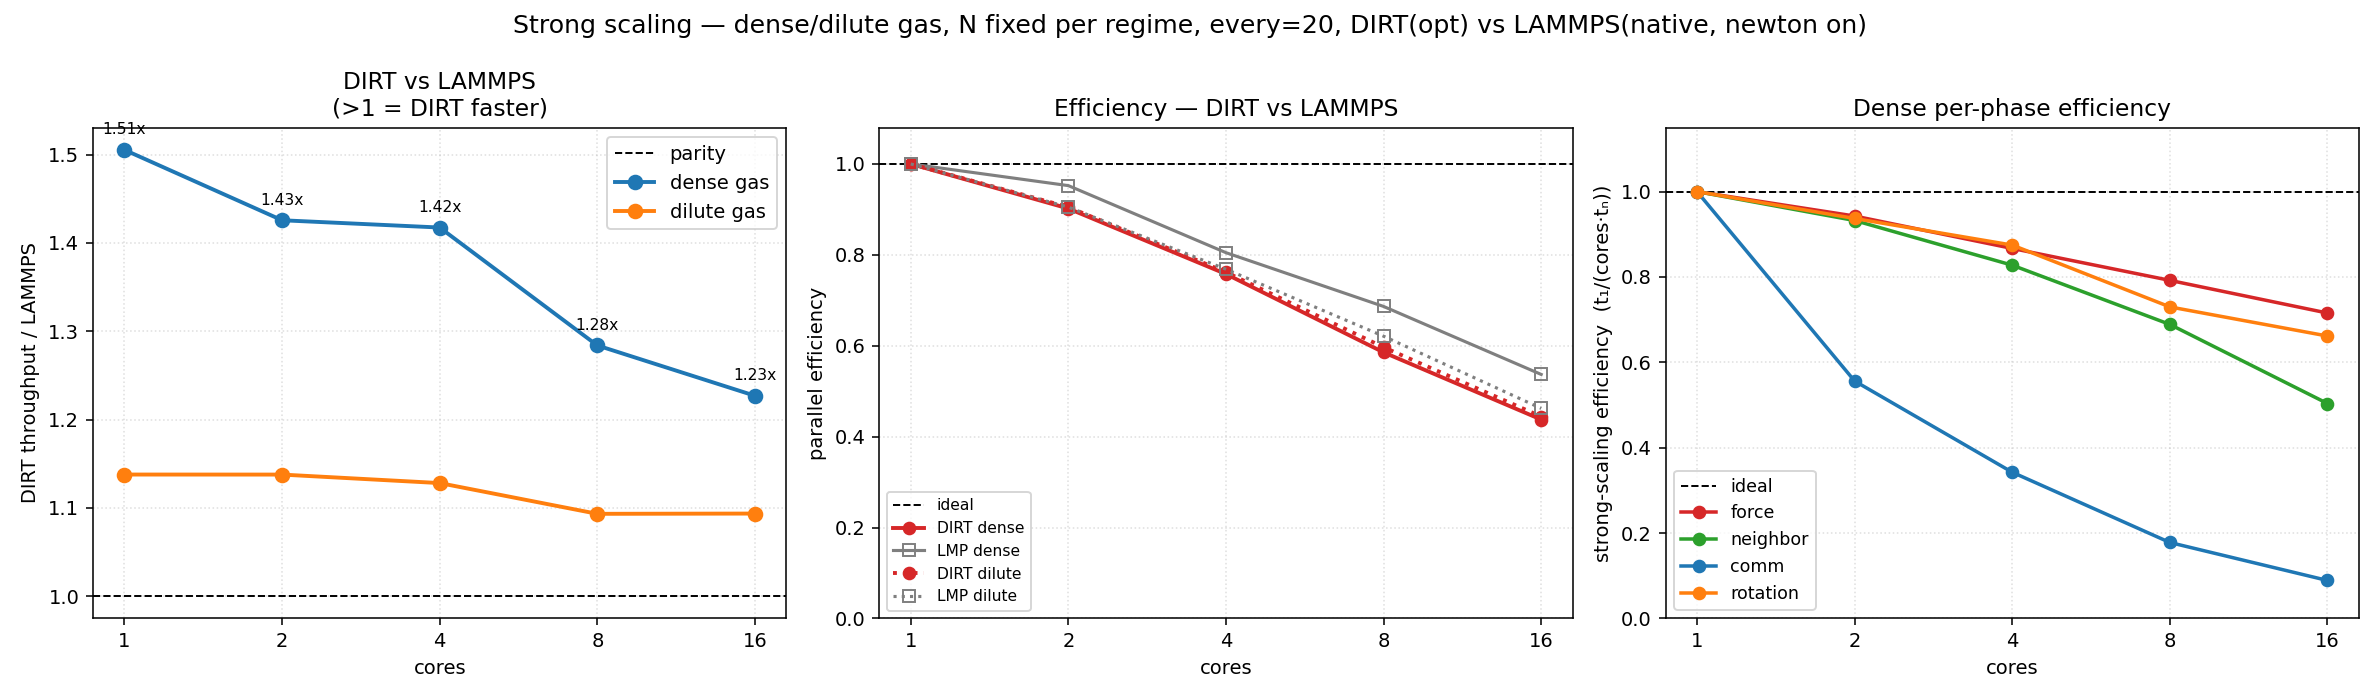
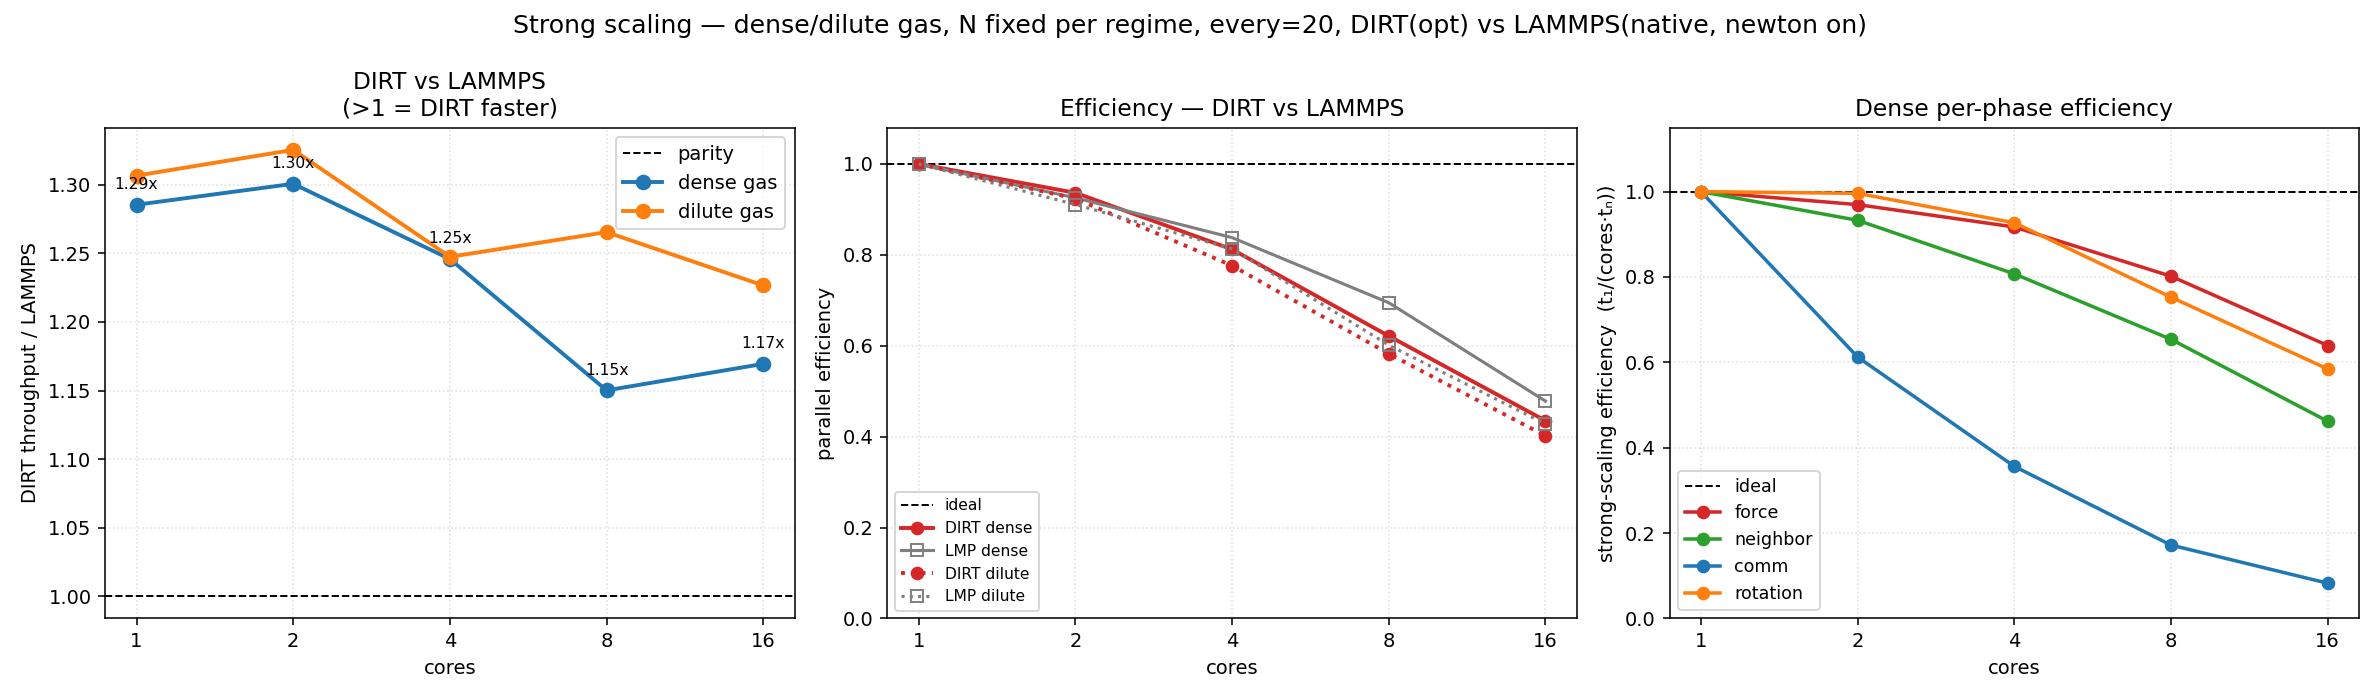
perf_mpi_scaling: rerun strong/weak scaling vs LAMMPS after comm and overhead fixes
Regenerated both scaling figures and the Findings section from a fresh run on
the M5 Pro (6 P + 12 E cores): this branch vs native LAMMPS 22Jul2025 u4,
interleaved, 3 reps, cores 1-16 (8 and 16 include E-cores). DIRT now leads
1.15-1.33x in every regime; dilute moved from ~0.9x after the sort-cadence,
zero-gravity and wall-free skips.

diff --git a/examples/perf_mpi_scaling/README.md b/examples/perf_mpi_scaling/README.md
@@ -6,11 +6,11 @@
 > positions + velocity distributions (verified same KE/atom). (3) **a real damping
 > bug** — from identical init DIRT cooled ~5–9 % faster; root-caused to DIRT using the
 > *linear* damping ratio on its *nonlinear Hertz* contact, fixed to the Tsuji
-> polynomial LAMMPS uses (codes now agree to ~1 %, see Physics note). After all three:
-> **DIRT genuinely wins dense (~1.3–1.5×, real kernel), dilute is ~parity** (its earlier
-> "win" was the over-damping artifact), **and LAMMPS scales better** — so the instinct
-> that "the scaling doesn't hold as well" *and* "I don't believe these results" were
-> both right, and led to a genuine physics fix.
+> polynomial LAMMPS uses (codes now agree to ~1 %, see Physics note). After all three,
+> DIRT won dense (real kernel), dilute sat at ~parity (its earlier "win" was the
+> over-damping artifact), and LAMMPS scaled better. The SOIL/DIRT comm, sort-cadence and
+> dead-pass work since then changes that: **DIRT now leads LAMMPS 1.15–1.33× in every
+> regime at every core count, with near-matching parallel efficiency** (see Findings).
 
 
 A **performance** benchmark (not a validation one). It measures how fast DIRT
@@ -171,41 +171,50 @@ only at higher core counts — run the ladder out on a server to see it).
 (3) **dense phase breakdown** — comm's share of the step climbing with core count
 (modest over 1→16 on a laptop; pronounced once you run the ladder out on a server).
 
-## Findings (Apple M5 Pro, 6 P + 12 E cores; strong N≈157k, weak ≈10k/core)
+## Findings (Apple M5 Pro, 6 P + 12 E cores; strong N=157,464, weak ≈10k/core)
 
-DIRT(optimized) ÷ native LAMMPS, both built native, both **`newton on`** (half list),
-matched init, both with **identical (Tsuji) contact physics** — they agree to ~1 %
-in a Haff-cooling test (see Physics note). **3-rep medians, cores 1–16:**
+DIRT ÷ native LAMMPS (stable 22Jul2025 update 4, `-O3 -mcpu=native`), both **`newton on`**
+(half list), matched init, both with **identical (Tsuji) contact physics** — they agree
+to ~1 % in a Haff-cooling test (see Physics note). DIRT at SOIL `c3dff02` / GRASS main
+(`f928e5c`). The two codes run interleaved case by case under `caffeinate`, on AC power,
+nothing else heavy running. **3-rep medians, cores 1–16:**
 
 | cores | strong dense | strong dilute | weak dense | weak dilute |
 |---:|:---:|:---:|:---:|:---:|
-| 1 | 1.49× | 1.11× | 1.23× | 0.90× |
-| 2 | 1.46× | 1.09× | 1.23× | 0.89× |
-| 4 | 1.40× | 1.08× | 1.16× | 0.88× |
-| 8\* | 1.32× | 1.07× | 1.21× | 0.95× |
-| 16\* | 1.37× | 1.13× | 1.34× | 1.09× |
+| 1 | 1.29× | 1.31× | 1.28× | 1.17× |
+| 2 | 1.30× | 1.33× | 1.27× | 1.16× |
+| 4 | 1.25× | 1.25× | 1.21× | 1.16× |
+| 8\* | 1.15× | 1.27× | 1.17× | 1.18× |
+| 16\* | 1.17× | 1.23× | 1.17× | 1.21× |
 
-`*` 8/16 ranks spill onto E-cores (only 6 P-cores), so absolute efficiency there is
-hardware-limited — but the **ratio is still meaningful** because both codes pay the
-same E-core penalty and it cancels.
+Throughput behind the ratios (M particle-steps/s, LAMMPS / DIRT):
 
-- **DIRT wins the dense (contact-bound) regime ~1.3–1.5×** — a real specialized-DEM-
-  kernel-vs-general-purpose-code advantage. It's robust to the damping fix because at
-  φ=0.50 the contact count (hence force work) is set by the *packing density*, not the
-  temperature.
-- **Dilute (overhead-bound) is ~parity**, and which way it tips depends on size:
-  LAMMPS marginally ahead at small N (weak 1–4 core, 0.88–0.90×), DIRT marginally ahead
-  at large N (strong, 1.07–1.13×). DIRT's earlier *apparent* dilute edge was a *physics*
-  artifact (the old over-damping ran a too-cold gas → fewer collisions → less work);
-  with correct damping it's a genuine near-tie.
-- **DIRT's advantage grows with system size.** The dense 1-core ratio is 1.35× at
-  N≈39k but 1.49× at N≈157k, and dilute flips from LAMMPS-ahead at 10k to DIRT-ahead at
-  157k — DIRT's data layout stays more cache-friendly as N climbs.
-- **LAMMPS still scales a touch better.** DIRT's lead is largest serially and erodes
-  with cores (clean P-core strong-dense parallel efficiency at 4 cores: LAMMPS 0.82 vs
-  DIRT 0.77). DIRT leads on absolute throughput, LAMMPS on scaling slope; per-phase
-  panels show **force/neighbor parallelize near-ideal while comm does not.** How
-  dominant comm becomes at high core counts needs a homogeneous-core server to measure.
+| cores | strong dense | strong dilute | weak dense | weak dilute |
+|---:|:---:|:---:|:---:|:---:|
+| 1 | 19.4 / 25.0 | 56.7 / 74.1 | 21.9 / 28.0 | 64.1 / 74.9 |
+| 4 | 65.1 / 81.1 | 184 / 230 | 75.2 / 91.2 | 202 / 233 |
+| 16\* | 149 / 174 | 388 / 476 | 152 / 178 | 338 / 410 |
+
+`*` This machine has only 6 P-cores, so the 8- and 16-rank points include E-cores.
+Absolute efficiency there is hardware-limited, but the **ratio is still meaningful**
+because both codes pay the same E-core penalty and it cancels.
+
+- **DIRT now wins every regime.** Dense (contact-bound) is the force kernel, as before.
+  Dilute moved from ~0.9× to 1.16–1.33× once three per-step overheads came out. Removing
+  them cut DIRT's serial strong-dilute step from 14.8 s to 10.7 s (LAMMPS: 14.4 s):
+  - atom sorting is now once per `sort_every` steps, not every neighbor rebuild
+    (`sort_atoms_by_bin` 2.30 → 0.09 s);
+  - the gravity pass is skipped when g = 0 (1.45 → 0 s);
+  - the wall pass is skipped when no wall is active (0.45 → 0 s).
+- **Comm no longer runs away.** Against DIRT before the SOIL comm work, comm time at
+  16 ranks fell to 0.25–0.41× (strong dense 4.53 → 1.83 s), and DIRT throughput rose
+  1.3–2.0× at high core counts.
+- **Parallel efficiency is now close to LAMMPS's.** On P-cores only, strong efficiency at 4
+  cores is 0.81 (DIRT) vs 0.84 (LAMMPS) dense and 0.78 vs 0.81 dilute; weak dilute is
+  even (0.78 vs 0.79). LAMMPS keeps a small edge in dense, which is why the dense ratio
+  eases from 1.3× serially to ~1.17× at 8–16 ranks. Comm time stays roughly flat as
+  ranks are added in strong scaling (about 2 s for dense at 1 and 16 ranks), so it
+  remains the phase that limits strong scaling.
 
 ### Why DIRT wins dense — a per-phase autopsy (1 core, no MPI confound)
 
